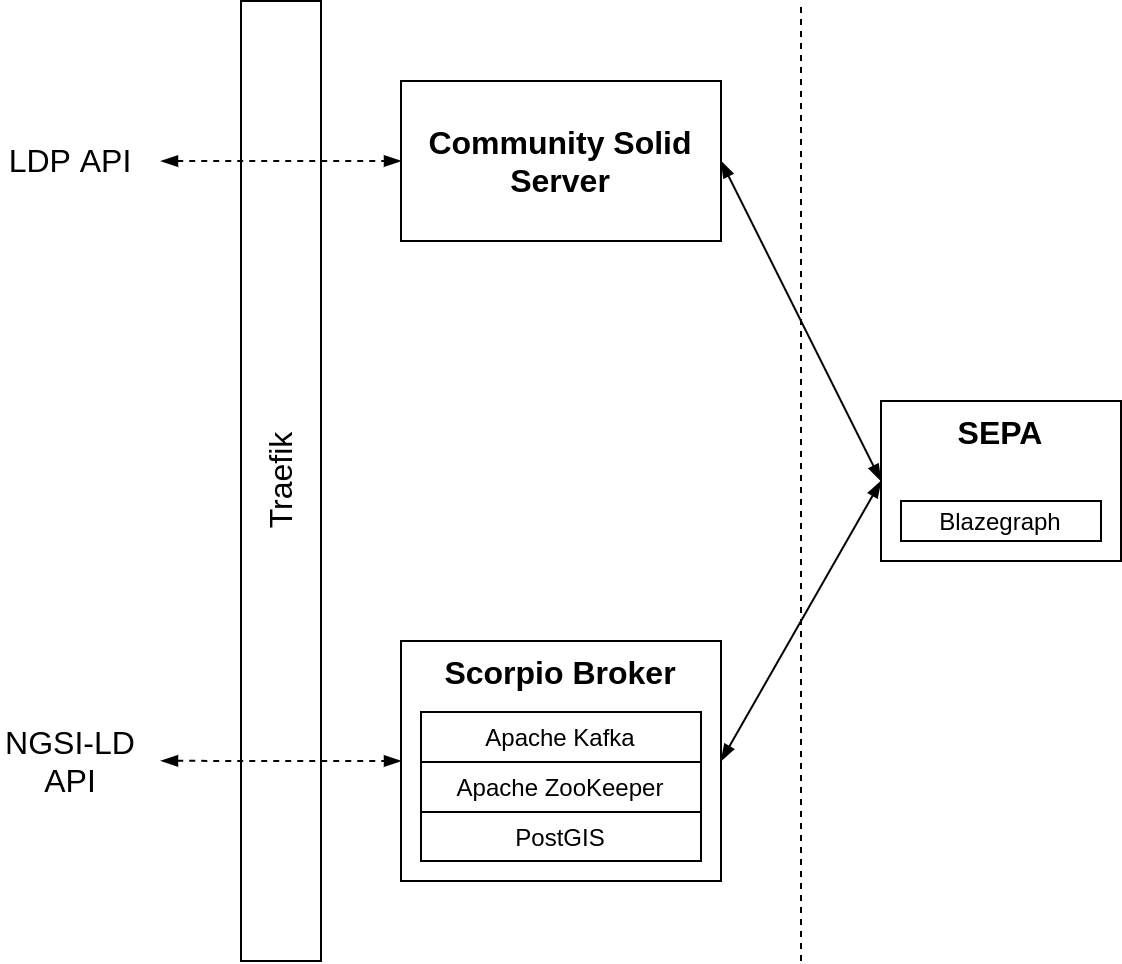
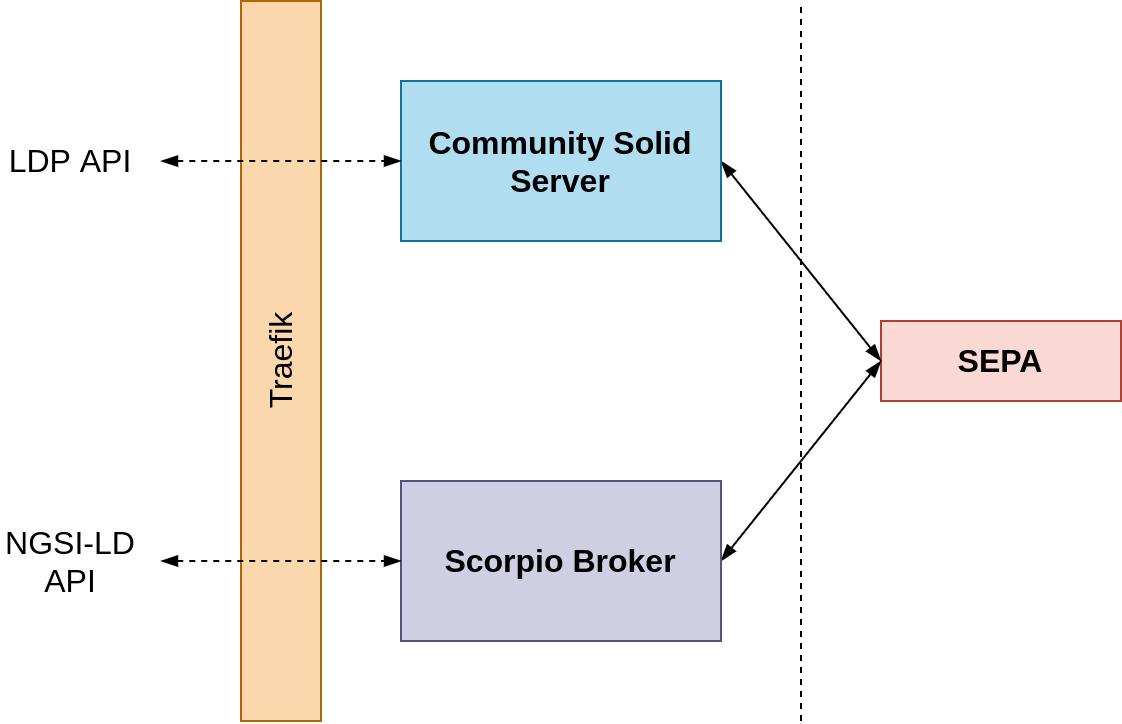
docs: add images on mainReport.md

diff --git a/reports/mainReport.md b/reports/mainReport.md
@@ -17,7 +17,7 @@ The architecture of DASI-BREAKER project, shown in the following figure, is desi
 
 These APIs are not directly exposed on the internet but are hidden behind Traefik: a reverse proxy and load balancer which handles the routing of requests automatically, allowing the entire system to scale easily.
 
-![Architecture](RackMultipart20210909-4-1giibgc_html_1a78e30c38bbe68e.png)
+![Architecture](imgs/dasi-breaker-architecture.png)
 
 ## **SOLID**
 
@@ -159,7 +159,7 @@ Some of these services need one or more volumes for saving their configurations 
 
 At this time the entire stack has been replicated two times to separate the development/testing environment from the production.
 
-![Deployement](RackMultipart20210909-4-1giibgc_html_ec4380ea19d7b2b0.png)
+![Deployement](imgs/dasi-breaker-deployment.png)
 
 ## **FUTURE STEPS**
 
